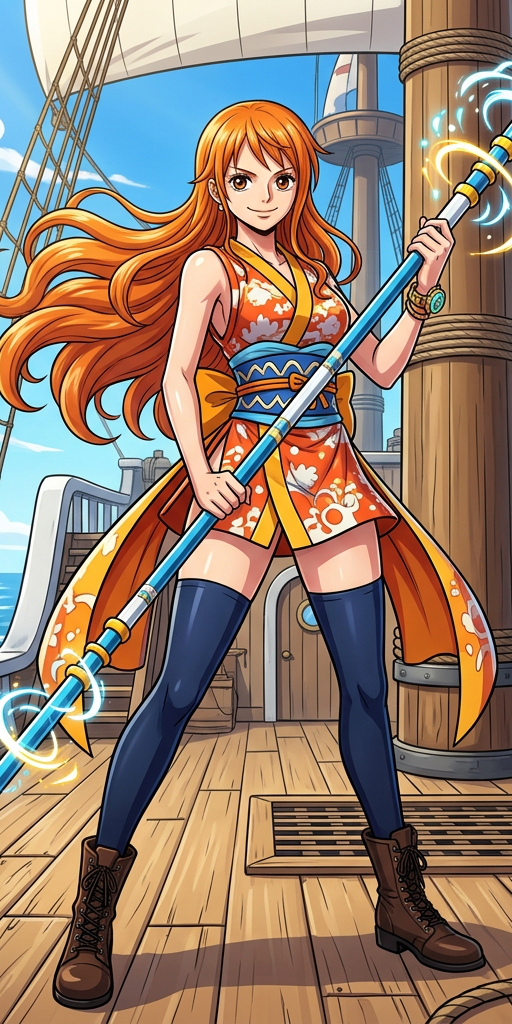
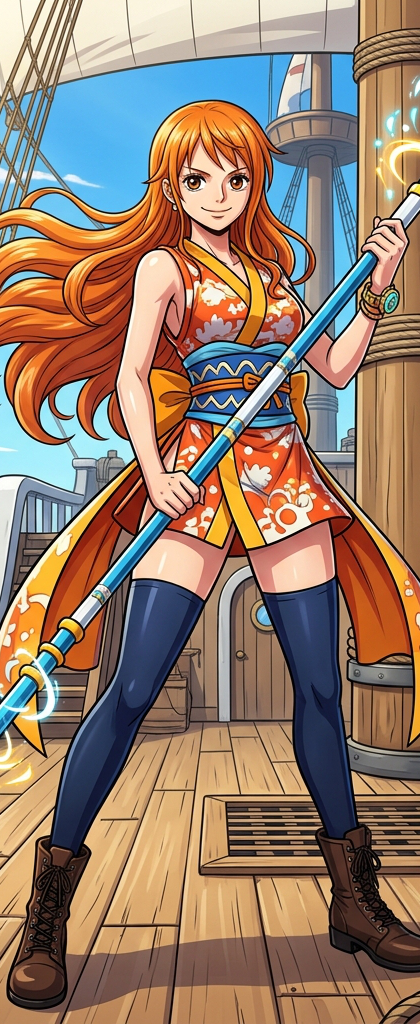
fix: crop image to 1:2.44 ratio and increase column width to 30% to eliminate bottom black space

diff --git a/README.md b/README.md
@@ -25,10 +25,10 @@
 
 <table align="center" width="100%" style="table-layout: fixed; width: 100%;">
   <tr valign="top">
-    <td width="26%" valign="top" style="padding: 0px;">
-      <img src="./apps/web/public/nami-outfits/nami-welcome-tall.png" alt="Nami Navigator" width="100%" style="width: 100%; height: auto; border-radius: 12px; display: block;" />
+    <td width="30%" valign="top" style="padding: 0px;">
+      <img src="./apps/web/public/nami-outfits/nami-welcome-tall.png" alt="Nami Navigator" width="100%" style="width: 100%; height: auto; border-radius: 12px 0 0 12px; display: block;" />
     </td>
-    <td width="74%" valign="top" style="padding: 8px 16px;">
+    <td width="70%" valign="top" style="padding: 12px 16px;">
       <h3><i>"Yosh, Mina-san! Welcome to NamiVerse!"</i> 💰🍊</h3>
       <p>
         I'm <b>Nami</b>, official Navigator of the Straw Hat Pirates! When I'm not steering the Thousand Sunny through treacherous Grand Line storms or counting my precious Berries (💰 100,000,000 and counting!), I chart the vast ocean of anime so you never have to waste your time on filler again!
